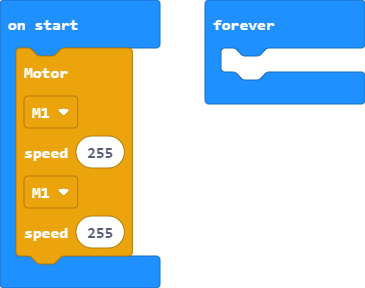
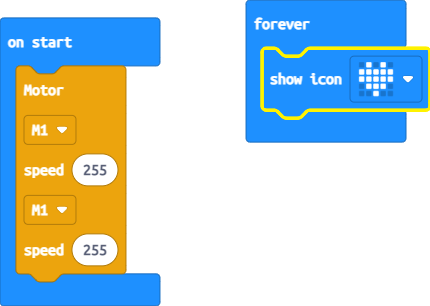
Update main.blocks, main.ts

Changed region(s): [[0.0, 0.0, 0.4521, 1.0], [0.5425, 0.0, 1.0, 0.4688]]

diff --git a/main.ts b/main.ts
@@ -5,5 +5,5 @@ SuperBit.enMotors.M1,
 255
 )
 basic.forever(function () {
-	
+    basic.showIcon(IconNames.Heart)
 })
